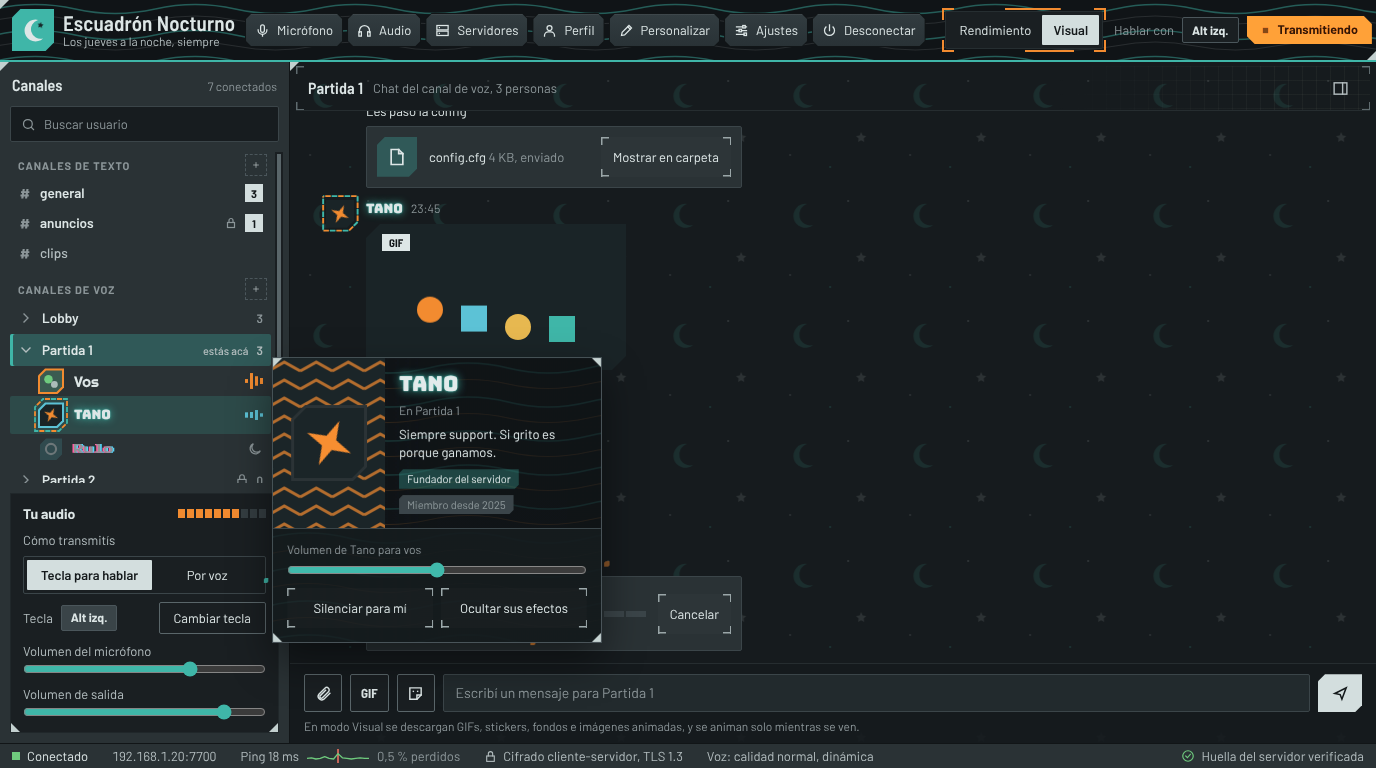
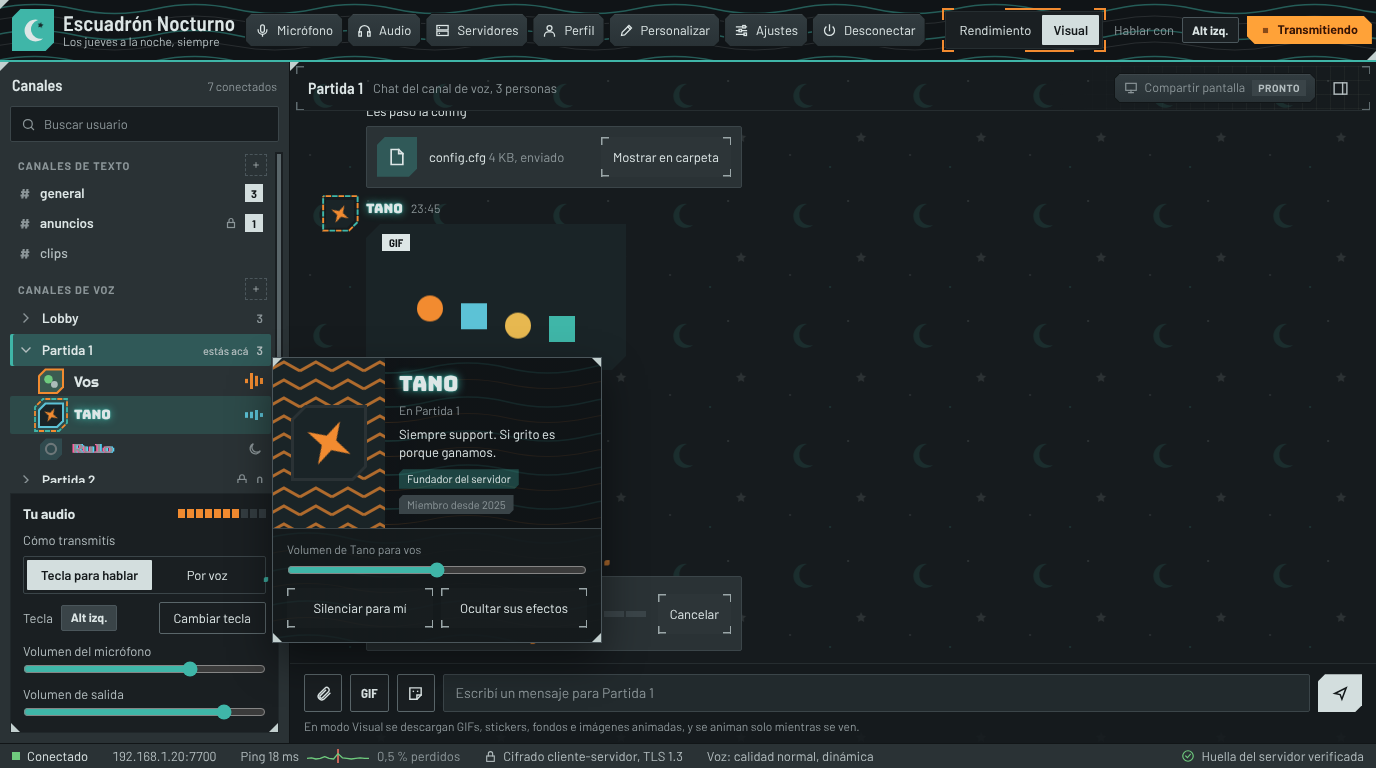
Diseño: compartir pantalla y Hostear por pasos
- docs/diseno.md: compartir pantalla como función en desarrollo para la
  etapa 12 (VP8 con libvpx para todos, incluido XP; H.264 por placa de
  video como copia opcional; la voz siempre primero; el servidor
  reenvía sin recomprimir y solo a quien mira), con lo que se prepara
  desde antes sin código muerto: paquete de medios con tipo y número
  de flujo, bit reservado en las funciones, subida por prioridades,
  permiso apagado y proceso de medios. Hostear pasa a ser un asistente
  de 7 pasos y la pantalla final Invitar gente; con el servidor creado,
  los mismos pasos van como pestañas.
- docs/plan.md: segunda parte del paso 2.4 (paquete de medios), botón
  "Compartir pantalla" con "Pronto" en el 2.5, preparación en las
  etapas 8, 9 y 10, los pasos de Hostear en cada etapa, y la etapa 12
  (12a y 12b).
- docs/estado.md: lo que sigue y los pendientes.
- docs/pantallas/: PantallaCompartida.png y PantallaCompartida-dialogo.png
  nuevas, Rendimiento.png y Visual.png actualizadas, y Hostear.png
  reemplazada por Hostear-1.png a Hostear-8.png (con las variantes del
  paso 4 y del 6).

Pedido por el dueño; capturas hechas por él fuera de Claude Code.

Changed region(s): [[0.8125, 0.0938, 0.9688, 0.1562], [0.2188, 0.5625, 0.25, 0.5938]]

diff --git a/docs/diseno.md b/docs/diseno.md
@@ -15,7 +15,7 @@ Principios:
 - **Gratis y propio.** El servidor lo hostea quien quiera, sin pagar y sin un límite artificial de usuarios.
 - **Seguro.** Todo viaja cifrado entre cada programa y el servidor.
 
-Lo que no hace en la primera versión: video, compartir pantalla, app para celular, bots, búsqueda de GIFs en servicios externos, grabación de la voz ni overlay dentro de los juegos (ver "Viabilidad como programa gratuito").
+Lo que no hace en la primera versión: video de cámara, compartir pantalla, app para celular, bots, búsqueda de GIFs en servicios externos, grabación de la voz ni overlay dentro de los juegos (ver "Viabilidad como programa gratuito"). Compartir pantalla llega después, en la etapa 12 (ver "Compartir pantalla").
 
 ## Cómo funciona
 
@@ -60,7 +60,7 @@ Organización de la ventana:
 
 - **Arriba:** el servidor, los botones (micrófono, audio, servidores, perfil, personalizar para los administradores, ajustes, desconectar), el selector de modo y el estado de la tecla para hablar.
 - **Izquierda:** la lista de canales en dos grupos, "Canales de texto" arriba y "Canales de voz" abajo (ver "Canales de voz y de texto"). Los de voz muestran las personas adentro y su estado: habla, micrófono apagado, audio apagado, ausente o no molestar (sin sonidos de aviso), y se pliegan. La lista se desplaza con su propia barra; abajo queda fijo tu audio: medidor, cómo transmitís (tecla o voz, con su sensibilidad) y volúmenes.
-- **Derecha:** el chat del canal de voz donde estás o del canal de texto que elegiste, con los archivos.
+- **Derecha:** el chat del canal de voz donde estás o del canal de texto que elegiste, con los archivos. Desde la etapa 12, ahí también se mira una pantalla compartida.
 - **Abajo:** la barra de estado con la conexión, el ping, el cifrado y la verificación del servidor.
 
 |  | Modo Rendimiento | Modo Visual |
@@ -93,7 +93,7 @@ El programa abre en **Inicio**: no hay lista de amigos, porque Ventrik se organi
 | Inicio (en los dos modos) | Tus servidores con su estado (en línea, cuántos hay, ping, tu último canal, solicitudes pendientes, tu servidor apagado), entrar con invitación, tu estado, el aviso de copia de tu identidad y el botón Reportar. En Visual suma el encabezado y el icono animados de cada servidor y tu tarjeta |
 | Servidor (Rendimiento o Visual) | Canales de voz y de texto, chat, archivos, tu audio y tarjetas de perfil |
 | Explorar servidores | Lista pública con búsqueda por nombre, IP o región; red local; guardados. En Visual, al elegir un servidor se ven su fondo e icono animados |
-| Hostear un servidor | Configuración, seguridad, calidad de voz, archivos y antivirus, invitaciones, red y puertos, capacidad y respaldo de la identidad del servidor |
+| Hostear un servidor | Asistente de 7 pasos (nombre y acceso, conexión, capacidad y voz, seguridad, chat y archivos, pantallas y varias PCs, revisar e iniciar) y la pantalla final Invitar gente (ver "Hostear: asistente por pasos") |
 | Ajustes | General (con el idioma), teclas (hablar y susurros), apariencia, avisos y sonidos, descargas, seguridad, red y acerca de (con Reportar, la licencia y las bibliotecas) |
 | Audio y micrófono | Dispositivos, cómo transmitís (tecla o voz) con medidor y prueba, limpieza de la voz, consumo de la voz, volúmenes y bajar otros programas cuando alguien habla (desde Windows 7) |
 | Enviar archivo con contraseña | Pide la contraseña, analiza el comprimido con ClamAV en tu PC y lo envía; la contraseña no sale de tu PC |
@@ -101,6 +101,7 @@ El programa abre en **Inicio**: no hay lista de amigos, porque Ventrik se organi
 | Perfil y Personalizar servidor | Lo del modo Visual, incluida la tarjeta de perfil |
 | Editor de efectos | Capas, vista previa ampliada y en tamaño real, límites y código para compartir, para el marco del avatar y el de la tarjeta |
 | Notificaciones | Mensajes nuevos y conexión cortada mientras Ventrik no está al frente: las de Windows 10 y 11 en la versión moderna, una ventana propia en la clásica (ver "Notificaciones") |
+| Compartir pantalla (etapa 12) | Elegir qué compartir (pantalla, ventana o una parte), la resolución, los cuadros y el cursor, con el lugar que hay hoy en el servidor; mirar en el lugar del chat (ver "Compartir pantalla") |
 
 ### Notificaciones
 
@@ -112,6 +113,25 @@ Avisan de lo que pasa mientras Ventrik no está al frente o está minimizado. Nu
 - **Windows 10 y 11 (versión moderna):** las notificaciones del sistema, las que salen abajo a la derecha y quedan en el Centro de actividades, con el nombre y el ícono de Ventrik. Se cargan con GetProcAddress; si no están, se usa la ventana propia.
 - **Versión clásica (XP a 8.1 y Windows 10 de 32 bits):** una ventana propia, chica, abajo a la derecha, parecida a la de Windows 10 y con el aspecto de Ventrik (docs/aspecto.md). No le quita el foco a lo que estés haciendo, se cierra sola a los pocos segundos y se dibuja sin Direct3D, para no gastar en la netbook.
 - **Privacidad:** Windows guarda sus notificaciones en un archivo propio, fuera de Ventrik y sin cifrar. Por eso, en Ajustes → Avisos se puede elegir que digan solo el canal y la cantidad, sin quién ni el texto.
+
+### Hostear: asistente por pasos
+
+Hostear un servidor es un asistente de 7 pasos y una pantalla final. Capturas: docs/pantallas/Hostear-1.png a Hostear-8.png, una por paso; el paso 4 tiene además Hostear-4-opciones.png, y el 6 va en Hostear-6-pantallas.png y Hostear-6-varias-pcs.png.
+
+1. **Nombre y acceso.**
+2. **Conexión:** puerto, placa de red, IPs, UPnP, probar desde internet y relay (ver "Red y puertos al hostear").
+3. **Capacidad y voz:** subida, voces a la vez, máximo de usuarios, tablas de cuántos entran y calidad.
+4. **Seguridad:** el nivel, con las opciones sueltas plegadas en "Qué incluye y cada opción por separado", y la identidad del servidor.
+5. **Chat y archivos.**
+6. **Pantallas y varias PCs:** opcional y en desarrollo (ver "Compartir pantalla"). "Varias PCs", un servidor sostenido entre varias PCs, todavía no está en este documento.
+7. **Revisar e iniciar:** un resumen con "Cambiar" en cada paso, las opciones al iniciar y un aviso si no se exportó la identidad del servidor.
+
+Después de iniciar, **Invitar gente** muestra el estado del servidor y las invitaciones; la primera invitación se crea sola al iniciar.
+
+- **La lista de pasos va a la izquierda,** siempre visible, con el valor elegido debajo de cada uno. Se puede saltar a cualquier paso.
+- **Abajo:** Atrás · "Dejar el resto como recomendado y revisar" · "Siguiente: <paso>". Nada se aplica hasta "Iniciar servidor".
+- **"Probar desde internet" funciona antes de iniciar:** abre el puerto un momento.
+- **Con el servidor ya creado,** "Configuración del servidor" muestra los mismos pasos como pestañas, sin Siguiente, y cada cambio se guarda solo.
 
 ## Voz
 
@@ -180,6 +200,43 @@ Con una tecla aparte, hablás a una persona, a un grupo o a otro canal sin mover
 - Quien recibe un susurro lo escucha marcado, con el nombre de quien habla y un sonido distinto.
 - El servidor decide quién puede susurrar a quién (permiso por rol y canal) y le aplica el tope de voces y la calidad dinámica igual que al resto.
 - Gasta lo mismo que hablar: el servidor reenvía la voz solo a los destinatarios.
+
+## Compartir pantalla (en desarrollo, etapa 12)
+
+Llega en la etapa 12, con el programa ya completo. Desde antes, lo que ya se hace se arma de la forma que después sirve, para sumarla sin rehacer nada (ver "Preparación desde ahora"). Requisito del dueño: tiene que andar también en XP, aunque cueste más hacerlo. Capturas: docs/pantallas/PantallaCompartida.png (mirando), PantallaCompartida-dialogo.png (qué compartir) y Hostear-6-pantallas.png.
+
+- **Cómo se ve:** quien comparte aparece con "EN VIVO" en la lista de canales. Quien toca "Mirar" ve la pantalla en el lugar del chat, con quién la comparte, en qué calidad sale y en cuál le llega, y los botones Compartir la tuya, Pantalla completa y Dejar de mirar. "Volver al chat" vuelve al chat del canal.
+- **Formatos de video:**
+  - Base para todos: VP8 con libvpx, comprimido por el procesador. Es libre de regalías (concesión de patentes de Google) y con licencia BSD, compatible con la GPL versión 3. Todo Ventrik lo trae, así cualquiera mira lo que comparte cualquiera, incluido XP. Hay que comprobar que ande en la versión clásica.
+  - Copia de mejor calidad, opcional: H.264 comprimido por la placa de video con Media Foundation, para quienes pueden descomprimirla (desde Windows 7).
+  - A quien mira desde XP le llega la copia VP8, de hasta 480p.
+- **Captura:** con la duplicación de escritorio de DXGI desde Windows 8, y con GDI en XP y 7. Solo se comprime si la pantalla cambió, comparando por bloques; el cursor viaja aparte.
+- **Qué se elige:** pantalla completa, una ventana o una parte; la resolución, de la original a 480p; 15, 30 o 60 cuadros por segundo; y si se ve el cursor. En XP, o sin una placa que comprima, el programa baja solo a lo que aguante el procesador.
+- **Red del host:**
+  - el servidor reenvía sin recomprimir, y solo a quien tocó "Mirar";
+  - si nadie la tiene a la vista, se deja de enviar y de comprimir;
+  - cuadros en capas, para bajar de 60 a 30 cuadros sin recomprimir;
+  - una copia chica para poca conexión, PC débil, ventana chica o XP;
+  - imágenes completas solo cuando entra alguien o se pierden datos, y de a pedazos;
+  - ajuste a la conexión de cada uno.
+- **La voz manda:** las pantallas usan solo lo que sobra de la voz, medido y con margen. Si no entra ni la copia chica, la persona espera su lugar.
+- **Hostear (paso 6):** subida para pantallas "lo que sobra de la voz" (predeterminado), con tope fijo o apagada; 1 transmisión por canal y 2 por servidor por defecto; quién puede compartir; cuántos entran en cada calidad; y un repetidor opcional, un relay que recibe una sola copia y la multiplica.
+- **Nunca de persona a persona:** dejaría a la vista la IP de cada uno.
+- **Seguridad:** el descompresor va en el proceso de medios, con fuzzing, versión fija y actualización rápida: libvpx tuvo el CVE-2023-5217, usado en ataques reales. En XP hay más riesgo porque no tiene ASLR, así que Ajustes trae "No mirar pantallas en esta PC".
+- **Medición, como en la etapa 1:** la HP 2133 compartiendo y mirando, y una PC moderna en 1080p y 1440p a 60 cuadros.
+- **Pendiente de decidir:** compartir el sonido de la PC (en XP no hay una forma simple de capturarlo).
+
+### Preparación desde ahora
+
+Sin código que todavía no se use: solo la forma correcta de lo que ya se hace.
+
+- **Paquete de medios (paso 2.4, segunda parte):** lo que va por DTLS lleva un tipo de flujo (voz; los demás quedan reservados) y un número de flujo. El servidor reenvía según el tipo y descarta los tipos que no conoce. La voz sale primero.
+- **Funciones del protocolo:** un bit reservado para "pantalla", todavía sin comportamiento.
+- **Etapa 8:** la subida del servidor se reparte en un solo lugar y por prioridades: primero la voz, después lo demás. Las pantallas se suman después como lo de menor prioridad.
+- **Etapa 9:** el permiso "Compartir pantalla" figura en la lista de permisos, apagado y marcado "en desarrollo".
+- **Etapa 10:** el proceso aparte para imágenes se arma como un "proceso de medios", para sumarle después el descompresor de video.
+- **Interfaz:** en el chat de voz, el botón "Compartir pantalla" aparece apagado con "Pronto" (paso 2.5). En Hostear, el paso 6 muestra "Pantallas compartidas" apagado con "En desarrollo". Los textos van en lang/.
+- **libvpx** no se agrega a third_party/ hasta la etapa 12.
 
 ## Chat y archivos
 
@@ -307,7 +364,7 @@ Cada persona puede armar sus propios marcos del avatar y de la tarjeta en un edi
 | Sticker | 512 KB |
 | GIF en el chat | 8 MB |
 
-El servidor recodifica cada imagen al recibirla: la lleva a un tamaño fijo, limita los cuadros por segundo y la duración, y guarda una versión quieta. Lo hace en un proceso aparte, sin permisos, por seguridad.
+El servidor recodifica cada imagen al recibirla: la lleva a un tamaño fijo, limita los cuadros por segundo y la duración, y guarda una versión quieta. Lo hace en un proceso aparte, sin permisos, por seguridad: el "proceso de medios", que en la etapa 12 suma el descompresor de video.
 
 ## Seguridad y cifrado
 
@@ -338,7 +395,7 @@ El mínimo del programa es TLS 1.3 o DTLS 1.2, con AES-GCM o ChaCha20. Sin ese m
 - **Se ata a la conexión:** el servidor sabe de quién es cada sesión de voz por la clave, y además exige que el UDP llegue desde la misma IP que la conexión TCP. Así decide quién habla según la conexión, y el paquete no dice quién es.
 - **Se renueva cada hora:** el servidor manda una identificación nueva; la vieja deja de servir para conectar.
 - **Antes de gastar nada:** el servidor solo atiende UDP de una IP que tiene una conexión presentada, pide una cookie antes del saludo (así nadie lo usa para atacar a otros), tiene tope de saludos a medio hacer por IP y en total, tope de paquetes por persona y descarta los repetidos.
-- **Formato de la voz, dentro de DTLS:** `u16 tipo` y el cuerpo. El programa manda `VozSubida` (número de paquete de 16 bits y hasta 400 bytes de Opus); el servidor reenvía `VozBajada` (quién habla, que lo pone el servidor, número y Opus) a los demás del mismo canal. `Ping` y `Pong` cada 5 segundos mantienen abierto el camino (NAT) y miden la conexión.
+- **Formato de los medios, dentro de DTLS:** `u16 tipo` y el cuerpo. Los paquetes de medios llevan el tipo de flujo (voz; los demás quedan reservados para compartir pantalla) y el número de flujo. El servidor reenvía según el tipo, descarta los tipos que no conoce y manda primero la voz. El programa manda `VozSubida` (número de paquete de 16 bits y hasta 400 bytes de Opus); el servidor reenvía `VozBajada` (quién habla, que lo pone el servidor, número y Opus) a los demás del mismo canal. `Ping` y `Pong` cada 5 segundos mantienen abierto el camino (NAT) y miden la conexión.
 - **Límites conocidos de la regla de la IP:** casas con dos salidas a internet, algunos CGNAT y servidores con varias placas de red pueden quedarse sin voz. Se revisan con el relay (etapa 6).
 
 La invitación lleva la huella del servidor. Si al conectar no coincide, el programa avisa y no se conecta; conviene pasar la huella por otro medio, como WhatsApp o en persona.
@@ -501,7 +558,7 @@ El panel de hosting muestra todo lo necesario para abrir el servidor a mano, y d
 - **IP pública:** el panel la muestra, igual que cualquier página de "cuál es mi IP".
 - **Abrir el puerto:** en el módem se reenvía el 7700 TCP y UDP a la IP local; el panel da la indicación exacta y, si el módem lo permite, lo intenta solo con UPnP. Conviene reservar la IP local en el módem para que no cambie. Con dos routers en cadena, hay que reenviarlo en los dos.
 - **Firewall de Windows:** el servidor crea la regla para su puerto; pide permiso de administrador una sola vez.
-- **Probar desde internet:** un servicio externo (el directorio o el relay) intenta conectarse a la IP pública y al puerto, y dice si responde. Es la única forma segura de saber que funciona. Si el directorio y el relay están apagados, la prueba no está disponible, pero el servidor anda igual.
+- **Probar desde internet:** un servicio externo (el directorio o el relay) intenta conectarse a la IP pública y al puerto, y dice si responde. Es la única forma segura de saber que funciona, y anda antes de iniciar el servidor: el programa abre el puerto un momento para la prueba. Si el directorio y el relay están apagados, la prueba no está disponible, pero el servidor anda igual.
 - **Si la prueba falla con todo bien configurado:** probablemente el proveedor usa CGNAT. La IP que muestran las páginas está compartida con otros clientes y el reenvío del módem no llega. Ahí sirven IPv6, pedirle una IP propia al proveedor, una red privada virtual o el relay.
 - **Lista pública:** no necesita otro puerto abierto. El servidor se anota hacia afuera y el directorio comprueba el puerto del servidor.
 
@@ -551,6 +608,8 @@ Un baneo bloquea la identidad del usuario y la huella de su equipo; bloquear la 
 - Invitaciones de un solo uso, con vencimiento.
 - Aprobación de usuarios nuevos, o un período de prueba sin poder hablar ni subir archivos.
 - Límite de ingresos por minuto.
+
+El permiso "Compartir pantalla" figura en la lista de permisos desde la etapa 9, apagado y marcado "en desarrollo" hasta la etapa 12.
 
 Límite honesto: la huella se puede falsificar con un programa modificado. Frena al usuario común, no al que se lo propone.
 
@@ -628,6 +687,7 @@ Cada voz se envía una vez por cada persona que la escucha. Como la cantidad de 
 - **Chat con modo lento:** en canales grandes, el admin puede limitar cada cuánto escribe cada persona.
 - **Lista de personas liviana:** el programa dibuja solo las filas visibles, y el servidor manda los cambios, no la lista entera.
 - **Reconexiones escalonadas:** si el servidor se reinicia, los programas vuelven a entrar con una espera al azar, para no llegar los 512 juntos.
+- **La subida se reparte en un solo lugar,** por prioridades: primero la voz, después lo demás. Las pantallas compartidas (etapa 12) se suman como lo de menor prioridad.
 - **Varios núcleos:** cada canal va a un hilo, así los canales llenos se reparten entre núcleos; en un canal muy grande, el envío a sus oyentes también se reparte entre varios hilos.
 - **Capacidad estimada:** al hostear, el dueño hace una prueba de velocidad (por ejemplo en speedtest.net) y anota la subida. El panel calcula cuántas personas aguanta en calidad Alta, Media y Mínima: personas ≈ subida × 0,85 ÷ (tope de voces × kbps por oyente) + 1, en el peor caso de todos hablando a la vez. Con 30 Mbps y tope de 4 da 107 personas en Alta, 213 en Media y 376 en Mínima. El máximo "Automático" usa ese número.
 
@@ -652,6 +712,7 @@ El programa y el servidor se escriben en C++17 nativo para Windows, con bibliote
 | Cifrado | Mbed TLS | TLS 1.3 y DTLS 1.2 dentro del programa, sin depender del cifrado viejo de XP. En la versión clásica, los números aleatorios salen de RtlGenRandom |
 | Contraseñas | Argon2 (implementación de referencia) | Argon2id para guardar y derivar contraseñas; Mbed TLS no lo trae |
 | Imágenes del modo Visual | stb\_image (GIF) y libwebp | Livianas y sin dependencias. No se aceptan PNG animados, porque stb\_image solo lee su primer cuadro |
+| Compartir pantalla (etapa 12) | VP8 con libvpx en todos los equipos; H.264 por la placa de video con Media Foundation, opcional (desde Windows 7) | VP8 es libre de regalías, BSD y compatible con la GPLv3, y anda en XP. libvpx entra a third_party/ recién en la etapa 12 |
 | Base de datos del servidor | SQLite | Un archivo; no hace falta instalar un motor aparte |
 | Abrir puertos | miniupnpc | UPnP, solo si el dueño lo activa |
 | Memoria segura | Microsoft GSL | gsl::span y otras ayudas para no leer fuera de los límites |
@@ -682,7 +743,7 @@ Reglas para que se entiendan:
 - **Texto siempre en UTF-8**; Windows usa UTF-16 por dentro y la conversión se hace al entrar y al salir.
 - **Mismo cifrado:** la versión clásica solo cambia de dónde saca los números aleatorios. Mbed TLS usa BCryptGenRandom, que no existe en XP, y ahí se reemplaza por RtlGenRandom ([repositorio oficial de Mbed TLS](https://github.com/Mbed-TLS/mbedtls)). Sin ese cambio, el programa no abre en XP.
 - **Voz en Opus**, un estándar que cualquier decodificador entiende.
-- **Al conectarse**, cada programa informa su versión del protocolo y qué funciones tiene. Si a la clásica le falta algo, el servidor se adapta, por ejemplo mandando la imagen quieta.
+- **Al conectarse**, cada programa informa su versión del protocolo y qué funciones tiene. Si a la clásica le falta algo, el servidor se adapta, por ejemplo mandando la imagen quieta. Las funciones son bits; uno queda reservado para "pantalla" (etapa 12), todavía sin comportamiento.
 - **El saludo no cambia nunca de formato:** así cualquier versión, por vieja o nueva que sea, entiende a cualquier otra lo suficiente para decirle que tiene que actualizar.
 - **Mensajes con tope:** cada mensaje mide como máximo 64 KiB; lo más grande, como los archivos, viaja en pedazos. Así la memoria que puede ocupar cada conexión también tiene techo.
 - **Versión mínima:** el servidor rechaza programas demasiado viejos con un aviso para actualizar, como [hace Zoom desde 2022](https://www.theregister.com/2022/10/31/zoom_minimum_client_update/).
@@ -730,6 +791,7 @@ Para que Ventrik sea gratis y siga funcionando sin una empresa detrás, no puede
 ### Lo que queda afuera de la primera versión
 
 - **Grabación:** cualquiera puede grabar con otro programa y eso no se puede impedir. Si algún día el programa graba, la regla ya queda fijada: todos ven un indicador mientras alguien graba con Ventrik, y el servidor puede prohibirlo.
+- **Compartir pantalla:** llega en la etapa 12, con el programa ya completo. El protocolo, la subida del servidor, los permisos y el proceso de medios se arman desde antes para sumarla sin rehacer nada (ver "Compartir pantalla").
 - **Overlay dentro de los juegos:** se mete en el dibujo de cada juego, choca con lo liviano, los anti-trampas lo pueden marcar y es muy difícil en XP. A lo sumo, más adelante y solo en la versión moderna.
 
 ## Riesgos y límites conocidos
@@ -742,6 +804,7 @@ El riesgo más importante es de confianza: quien controla el servidor puede leer
 | Windows XP y 7 sin parches | La PC queda expuesta a ataques del sistema, y XP no tiene ASLR ni CFG, que dificultan aprovechar errores de memoria | Usar el relay en lugar de abrir puertos; versión moderna para Windows 10 y 11 |
 | CGNAT | Nadie de afuera entra directo | Relay, IP pública, IPv6 o red privada virtual |
 | Velocidad de subida del host | Pone el límite real de usuarios | Tope de voces por canal, modo canal grande, calidad dinámica y capacidad estimada al hostear |
+| Compartir pantalla en XP (etapa 12) | Comprimir video gasta mucho procesador, y XP no tiene ASLR para frenar un video armado para atacar | Copia VP8 de hasta 480p, el programa baja solo lo que no aguanta, el descompresor en el proceso de medios y "No mirar pantallas en esta PC" |
 | Costo del relay | Si el uso crece, el relay oficial puede costar más de lo que entra por donaciones | Límite de 16 personas por servidor, relays de la comunidad y propios |
 | Antivirus en XP | Depende de una adaptación no oficial de ClamAV; si deja de actualizarse, XP se queda sin base nueva cuando su rama ya no pueda bajarla (la 1.4, después de agosto de 2028) | Probarla en XP real; si se corta, en XP se aplica "Si no se puede analizar" |
 | Pérdida de la clave del servidor | Las invitaciones dejan de servir y los usuarios ven el aviso de huella cambiada | Respaldo de la identidad del servidor |
@@ -755,7 +818,7 @@ Cuenta de la subida del host: tope de voces × (personas − 1) × kbps por oyen
 
 ## Plan de trabajo
 
-El desarrollo va en once etapas, y la primera es una prueba chica de voz para medir demora y consumo antes de construir el resto. Las dos versiones (moderna y clásica) se compilan y prueban desde el principio.
+El desarrollo va en doce etapas, y la primera es una prueba chica de voz para medir demora y consumo antes de construir el resto. Las dos versiones (moderna y clásica) se compilan y prueban desde el principio.
 
 1. **Prueba de voz:** voz entre dos PCs en red local, con tecla para hablar. Se mide demora y consumo, también en la netbook.
 2. **Base:** servidor, canales de voz y de texto, chat, cifrado con TLS 1.3 y DTLS 1.2, permisos básicos verificados en el servidor y panel de diagnóstico.
@@ -764,10 +827,11 @@ El desarrollo va en once etapas, y la primera es una prueba chica de voz para me
 5. **Archivos y antivirus:** subida, descarga, reanudación, prioridad de la voz, ClamAV en el servidor, base de virus compartida por el servidor y envío de comprimidos con contraseña.
 6. **Red:** panel de red y puertos (placa, puertos, UPnP opcional y prueba desde internet), búsqueda en la red local, relay (el oficial y agregar otros) e invitaciones.
 7. **Lista pública:** directorio (y agregar otros directorios), búsqueda por nombre, IP o región, su seguridad, el buzón de reportes y el botón Reportar, sin captura todavía.
-8. **Servidores grandes:** tope de voces, calidad dinámica, capacidad estimada, canal escenario, modo canal grande, chat lento y reconexiones escalonadas.
-9. **Moderación:** roles, permisos por rol y canal (también para susurrar), baneos y barreras de entrada.
-10. **Modo Visual:** perfiles, tarjeta con fondo animado, efecto por fuera y animación al abrirse, Inicio en modo Visual, personalización del servidor (icono animado, fondo del chat y color del tema en los detalles), marcos de avatar, editor de efectos con su código para compartir, GIFs, stickers y la captura en los reportes, que usa el mismo proceso aparte para imágenes.
+8. **Servidores grandes:** tope de voces, calidad dinámica, capacidad estimada, canal escenario, modo canal grande, chat lento, reconexiones escalonadas y la subida del servidor repartida en un solo lugar, por prioridades.
+9. **Moderación:** roles, permisos por rol y canal (también para susurrar, y "Compartir pantalla" apagado hasta la etapa 12), baneos y barreras de entrada.
+10. **Modo Visual:** perfiles, tarjeta con fondo animado, efecto por fuera y animación al abrirse, Inicio en modo Visual, personalización del servidor (icono animado, fondo del chat y color del tema en los detalles), marcos de avatar, editor de efectos con su código para compartir, GIFs, stickers y la captura en los reportes, que usa el mismo proceso aparte para imágenes, armado como "proceso de medios".
 11. **Cierre:** modo servidor limitado, idiomas, el resto de Ajustes, instaladores firmados y pruebas largas.
+12. **Compartir pantalla:** VP8 en todos los equipos, incluido XP, con captura, reenvío y topes; después, la copia H.264 por la placa de video y los cuadros en capas.
 
 **Cómo se prueba cada versión:**
 
@@ -788,6 +852,7 @@ Estas decisiones quedan abiertas; ninguna frena la primera etapa.
 - [ ] Límites definitivos del modo servidor limitado y del relay oficial, después de probar.
 - [ ] Mensajes privados entre usuarios (todavía no diseñados) y, si se suman, cifrado de punta a punta opcional para que el servidor no los pueda leer.
 - [ ] Si en el futuro se agregan grabación, búsqueda de GIFs, overlay o app para celular.
+- [ ] Compartir el sonido junto con la pantalla (etapa 12; en XP no hay una forma simple de capturarlo).
 
 Ya decidido: código abierto con licencia GPL versión 3 (ver "Viabilidad como programa gratuito").
 
@@ -820,7 +885,7 @@ Ya decidido: código abierto con licencia GPL versión 3 (ver "Viabilidad como p
 | Llave de seguridad | Un dispositivo USB (como una YubiKey) que guarda una clave secreta que nunca sale de él |
 | Núcleo | Cada parte del procesador que puede trabajar por su cuenta |
 | Overlay | Lo que dibujan algunos programas de voz encima de un juego, por ejemplo quién está hablando |
-| Proceso aparte sin permisos | Una parte del servidor o del programa separada del resto y sin acceso al sistema. Si falla, no arrastra al resto |
+| Proceso aparte sin permisos | Una parte del servidor o del programa separada del resto y sin acceso al sistema. Si falla, no arrastra al resto. En Ventrik, el de las imágenes es el "proceso de medios", que en la etapa 12 también descomprime video |
 | Protocolo | El formato exacto de cada mensaje entre el programa y el servidor |
 | RAM | La memoria de trabajo de la PC |
 | Relay | Un intermediario que reenvía los datos cifrados sin poder leerlos |

diff --git a/docs/plan.md b/docs/plan.md
@@ -82,26 +82,29 @@ Terminada cuando: la demora en red local está cerca de las 80 ms de la meta y l
 2. (Delicado) El servidor genera su certificado y muestra la huella; el programa se conecta por TLS 1.3 con Mbed TLS y compara la huella. Pruebas de huella correcta, huella incorrecta e intento de bajar a un cifrado más débil.
 3. Canales, entrar y salir, chat por canal guardado en SQLite con consultas preparadas, permisos básicos verificados en el servidor en cada acción y panel de diagnóstico (procesador, RAM, ping y pérdida de paquetes).
 4. (Delicado) Voz por DTLS 1.2 a través del servidor, que la reenvía sin decodificar y decide quién habla según la conexión.
+   - Segunda parte (delicada, antes de publicar): el paquete de medios por DTLS lleva el tipo de flujo (voz; los demás reservados) y el número de flujo; el servidor reenvía según el tipo y descarta los que no conoce. Se reserva el bit "pantalla" en las funciones del protocolo, sin comportamiento. Prepara compartir pantalla (etapa 12).
 5. Ventana principal en modo Rendimiento y pantalla Inicio con Direct3D 9 y Dear ImGui, con el aspecto de docs/aspecto.md. Textos en lang/. En tres partes:
    - Parte 1 (hecha): la ventana y la pantalla Inicio, comparada con docs/pantallas/Inicio.png.
    - Parte 2 (delicada): canales de texto en el protocolo, la base y los permisos. Tipo de canal y marca "solo los admins escriben", contador de mensajes, aviso de mensajes nuevos sin el texto y con tope de ritmo, y el servidor rechaza usar un canal de texto como canal de voz. La base de prueba se actualiza sola.
-   - Parte 3: la pantalla del servidor, con los dos grupos de canales, la barra de la lista, los botones +, los contadores de nuevos y hasta dónde leíste guardado en la PC. Captura comparada con docs/pantallas/Rendimiento.png y Rendimiento-canal-texto.png.
+   - Parte 3: la pantalla del servidor, con los dos grupos de canales, la barra de la lista, los botones +, los contadores de nuevos y hasta dónde leíste guardado en la PC. Lleva el botón "Compartir pantalla" apagado con "Pronto". Captura comparada con docs/pantallas/Rendimiento.png y Rendimiento-canal-texto.png.
 6. Prueba en check.ps1 que levanta servidor y programa en las cuatro combinaciones (clásica y moderna en cada lado) y verifica conexión, chat y voz.
 
 Terminada cuando: un servidor con dos programas conectados (uno desde XP) que chatean en un canal de voz y en uno de texto, y hablan, y la revisión independiente sin fallas de seguridad pendientes.
 
-## Etapas 3 a 11
+## Etapas 3 a 12
 
 Cada una empieza en una sesión nueva: se divide en pasos chicos, cada uno con su prueba automática y una prueba a mano, marcando los delicados.
 
 | Etapa | Pasos principales | Pantallas | Prueba a mano al final |
 | --- | --- | --- | --- |
 | 3. Voz completa | Notificaciones como primer paso: las de Windows 10 y 11 en la moderna y una ventana propia en la clásica, configurables; varias voces y mezcla; RNNoise; cancelación de eco con SpeexDSP; tecla o voz con sensibilidad; volumen por persona; susurro con los permisos básicos (los permisos por rol llegan en la etapa 9) | Audio y micrófono; Ajustes → Teclas; Ajustes → Avisos | Tres personas hablando, ruido de fondo de prueba y un susurro; una notificación con Ventrik minimizado, en la PC y en XP |
-| 4. Identidad y seguridad (delicada) | Clave de identidad; contraseñas con Argon2id; DPAPI y contraseña maestra; niveles de seguridad; historial cifrado; bloqueo automático; aviso de equipo nuevo; avisos de acciones de admins; TOTP para admins; llaves en la moderna; respaldo, mudanza y cambio de clave del servidor | Ajustes → Seguridad; Hostear → Seguridad | Exportar la identidad, borrarla, importarla y volver a entrar; mudar un servidor de prueba a otra PC |
-| 5. Archivos y antivirus (delicada) | Subida, descarga y reanudación con prioridad de la voz; cuarentena y ClamAV en el servidor; base de virus compartida por el servidor; comprimidos con contraseña en el cliente | Enviar archivo con contraseña | Subir el archivo de prueba EICAR y ver que se bloquea |
-| 6. Red | Panel de red y puertos (placa, puertos, UPnP, firewall, prueba desde internet); búsqueda en la red local; relay (el oficial y agregar otros); invitaciones | Hostear → Red; Explorar → Red local | Alguien de afuera entra con una invitación |
+| 4. Identidad y seguridad (delicada) | Clave de identidad; contraseñas con Argon2id; DPAPI y contraseña maestra; niveles de seguridad; historial cifrado; bloqueo automático; aviso de equipo nuevo; avisos de acciones de admins; TOTP para admins; llaves en la moderna; respaldo, mudanza y cambio de clave del servidor | Ajustes → Seguridad; Hostear: el asistente por pasos, con los pasos 1 (Nombre y acceso), 4 (Seguridad) y 7 (Revisar e iniciar), y el 6 apagado "En desarrollo" | Exportar la identidad, borrarla, importarla y volver a entrar; mudar un servidor de prueba a otra PC |
+| 5. Archivos y antivirus (delicada) | Subida, descarga y reanudación con prioridad de la voz; cuarentena y ClamAV en el servidor; base de virus compartida por el servidor; comprimidos con contraseña en el cliente | Enviar archivo con contraseña; Hostear, paso 5 (Chat y archivos) | Subir el archivo de prueba EICAR y ver que se bloquea |
+| 6. Red | Panel de red y puertos (placa, puertos, UPnP, firewall, prueba desde internet); búsqueda en la red local; relay (el oficial y agregar otros); invitaciones | Hostear, paso 2 (Conexión) y la pantalla final Invitar gente; Explorar → Red local | Alguien de afuera entra con una invitación |
 | 7. Lista pública | Directorio (puerto 7702 y DNS dinámico) y agregar otros directorios; búsqueda por nombre, IP y región; copia guardada cuando está apagado; buzón de reportes y botón Reportar, sin captura todavía | Explorar servidores; Reportar | Apagar el directorio y entrar igual a un servidor guardado |
-| 8. Servidores grandes | Simulador de 512 usuarios; tope de voces; calidad dinámica; capacidad estimada; canal escenario; modo canal grande; chat lento; reconexiones escalonadas | Hostear → Calidad y Capacidad | El informe del simulador muestra cómo baja la calidad con poca subida |
-| 9. Moderación | Roles y permisos por rol y canal (también para susurrar); baneos con huella del equipo; barreras de entrada | Panel de administración | Banear una prueba y ver que vuelve silenciada |
-| 10. Modo Visual (delicada) | Perfiles y tarjeta con fondo animado, efecto por fuera y animación al abrirse; marcos de avatar y editor de efectos con su código para compartir (validado y con fuzzing); Inicio en Visual; personalización (icono animado, fondo del chat, color del tema), GIFs y stickers; imágenes en un proceso aparte con fuzzing; captura en los reportes | Visual, Inicio en Visual, Perfil, Editor de efectos, Personalizar servidor | Cambiar de modo y ver que en Rendimiento no se descarga nada |
+| 8. Servidores grandes | Simulador de 512 usuarios; tope de voces; calidad dinámica; capacidad estimada; canal escenario; modo canal grande; chat lento; reconexiones escalonadas; la subida del servidor repartida en un solo lugar por prioridades (primero la voz) | Hostear, paso 3 (Capacidad y voz) | El informe del simulador muestra cómo baja la calidad con poca subida |
+| 9. Moderación | Roles y permisos por rol y canal (también para susurrar); baneos con huella del equipo; barreras de entrada; el permiso "Compartir pantalla" en la lista, apagado y "en desarrollo" | Panel de administración | Banear una prueba y ver que vuelve silenciada |
+| 10. Modo Visual (delicada) | Perfiles y tarjeta con fondo animado, efecto por fuera y animación al abrirse; marcos de avatar y editor de efectos con su código para compartir (validado y con fuzzing); Inicio en Visual; personalización (icono animado, fondo del chat, color del tema), GIFs y stickers; imágenes en el proceso de medios (proceso aparte, con fuzzing, listo para sumarle video); captura en los reportes | Visual, Inicio en Visual, Perfil, Editor de efectos, Personalizar servidor | Cambiar de modo y ver que en Rendimiento no se descarga nada |
 | 11. Cierre | Modo servidor limitado; idiomas; el resto de Ajustes; instaladores con ClamAV; firma con SignPath; actualizaciones firmadas; pruebas de 8 horas | Ajustes (general, apariencia, descargas, red, acerca de) | Instalar desde cero en XP, en la netbook y en Windows 11 |
+| 12a. Compartir pantalla (delicada) | VP8 con libvpx en todos los equipos, incluido XP (libvpx entra a third_party/); captura con DXGI desde Windows 8 y GDI en XP y 7, solo lo que cambió y el cursor aparte; reenvío sin recomprimir, solo a quien mira; copia chica y ajuste a la conexión; topes y opciones de Hostear; descompresor en el proceso de medios con fuzzing; "No mirar pantallas en esta PC" | Compartir pantalla; Hostear, paso 6 (Pantallas compartidas) | Medir como en la etapa 1: la HP 2133 compartiendo y mirando |
+| 12b. Pantalla en alta calidad | Copia H.264 por la placa de video con Media Foundation (desde Windows 7); cuadros en capas para bajar de 60 a 30 sin recomprimir; repetidor opcional | Las mismas | Una PC moderna compartiendo en 1080p y 1440p a 60 cuadros |

diff --git a/docs/estado.md b/docs/estado.md
@@ -14,7 +14,9 @@ Para retomar sin perder contexto (se carga desde CLAUDE.md). Actualizar al cerra
 - **Etapa 2, paso 2.4: cerrado.** Voz por DTLS 1.2 a través del servidor: clave derivada de la conexión TLS, reenvío solo al mismo canal, audio con miniaudio o el puente WinMM en XP, `/hablar` en la consola. Probado a mano: voz en los dos sentidos entre la HP 2133 con XP y la PC, y que otro canal no escucha.
 - **Etapa 2, paso 2.5, parte 1: cerrada.** La ventana con Direct3D 9 y Dear ImGui, el aspecto de docs/aspecto.md (fuentes Barlow dentro del .exe, piezas e íconos dibujados por código) y la pantalla Inicio: servidores guardados en esta PC, entrar con dirección, huella, nombre y código de dueño, y lo de etapas futuras apagado con un cartel que dice en qué etapa llega. Ícono del programa y emblema sacados de docs/logo.png (el dueño pidió solo la cabeza con los auriculares). Comparada con docs/pantallas/Inicio.png. Probada a mano en la PC y en la HP 2133 (entrar, guardado, dueño, huella falsa, minimizar y bloquear).
 - **Diseño actualizado (2026-10-23): canales de texto y notificaciones.** Dos tipos de canal (de voz y de texto, en dos grupos en la lista, con contador de nuevos y la marca "solo los admins escriben") y notificaciones (las de Windows 10 y 11 en la moderna, una ventana propia en la clásica). Está en docs/diseno.md, docs/aspecto.md y docs/plan.md; capturas nuevas en docs/pantallas/ (Rendimiento-canal-texto.png y Visual-canal-texto.png, y Rendimiento.png y Visual.png actualizadas).
-- **Lo que sigue: paso 2.5, parte 2 (delicada)**: canales de texto en el protocolo, la base y los permisos. Después, la parte 3: la pantalla del servidor (con los dos grupos de canales, hablar con una tecla y la barra de estado con el gráfico de ping) y borrar la consola de prueba. Las notificaciones son el primer paso de la etapa 3.
+- **Diseño actualizado (2026-10-24): compartir pantalla, en desarrollo.** Llega en la etapa 12 (VP8 para todos, incluido XP; H.264 por placa de video como copia opcional). Desde antes se prepara sin código muerto: el paquete de medios (paso 2.4, segunda parte), la subida por prioridades (etapa 8), el permiso apagado (etapa 9), el proceso de medios (etapa 10) y la interfaz ("Pronto" en el 2.5, paso 6 de Hostear apagado). Está en docs/diseno.md y docs/plan.md, con capturas en docs/pantallas/ (PantallaCompartida.png, PantallaCompartida-dialogo.png, y Rendimiento.png y Visual.png actualizadas).
+- **Diseño actualizado (2026-10-24): Hostear es un asistente por pasos.** 7 pasos y la pantalla final Invitar gente; con el servidor creado, los mismos pasos van como pestañas en "Configuración del servidor". Está en docs/diseno.md ("Hostear: asistente por pasos") y docs/plan.md; Hostear.png se reemplazó por Hostear-1.png a Hostear-8.png (con las variantes del paso 4 y del 6). No es para la etapa en curso.
+- **Lo que sigue: paso 2.4, segunda parte (delicada)**: el paquete de medios por DTLS lleva el tipo de flujo (voz; los demás reservados) y el número de flujo, el servidor reenvía según el tipo y descarta los que no conoce, y se reserva el bit "pantalla" en las funciones. Después, el paso 2.5, parte 2 (delicada): canales de texto en el protocolo, la base y los permisos; y la parte 3: la pantalla del servidor (con los dos grupos de canales, hablar con una tecla, la barra de estado con el gráfico de ping y el botón "Compartir pantalla" apagado con "Pronto") y borrar la consola de prueba. Las notificaciones son el primer paso de la etapa 3.
 
 ## Ramas y repositorio
 
@@ -187,6 +189,8 @@ Para retomar sin perder contexto (se carga desde CLAUDE.md). Actualizar al cerra
 - Paso 2.5, parte 2: cada canal lleva su tipo, la marca "solo admins" y su contador en el protocolo y en la base. La base del servidor sube de versión y la de prueba se actualiza sola. El aviso de mensajes nuevos va sin el texto, con tope de un aviso por segundo por persona.
 - Paso 2.5, parte 3: la pantalla del servidor se compara con docs/pantallas/Rendimiento.png y Rendimiento-canal-texto.png. Lleva los dos grupos de canales, la barra de la lista, los botones + (solo el dueño), el contador de nuevos y el campo bloqueado donde solo escriben los admins. La barra de estado lleva, junto al ping, el gráfico del último minuto (ping y pérdida) que abre el diagnóstico.
 - programa.dat pasa a la versión 2 para guardar hasta dónde leíste en cada canal. Las listas v1 de las PCs de prueba se toman como viejas y empiezan de nuevo, con el aviso.
+- Etapa 12 (futura): compartir pantalla. La preparación está repartida: 2.4 segunda parte (paquete de medios y bit reservado), 2.5 parte 3 (botón con "Pronto"), etapa 4 (paso 6 de Hostear apagado), 8 (subida por prioridades), 9 (permiso apagado) y 10 (proceso de medios). libvpx no entra a third_party/ hasta la 12. "La voz sale primero" hoy ya se cumple (el servidor atiende la voz antes que el chat); la cola con prioridades llega en la etapa 8.
+- "Varias PCs" (un servidor sostenido entre varias PCs) aparece "en desarrollo" en el paso 6 de Hostear, pero todavía no está diseñado en docs/diseno.md.
 - Nombres en alfabetos que Barlow no tiene (cirílico, griego, hebreo, árabe, chino): se ven como recuadros. Sumar fuentes es decisión del dueño.
 - Memoria de la ventana: unos 70 MB en Windows 10 (casi todo de Direct3D 9) y 7 MB en la HP 2133 con XP (medido por el dueño, Administrador de tareas).
 - Por VNC, en la HP 2133 la ventana no se ve (en la pantalla de la propia PC sí). El VNC usa un controlador espejo (sin él gasta mucho), y ese controlador no ve lo que dibuja Direct3D. Decisión del dueño: dejarlo así, sin cambios solo para el VNC; la netbook se prueba usándola directamente.
